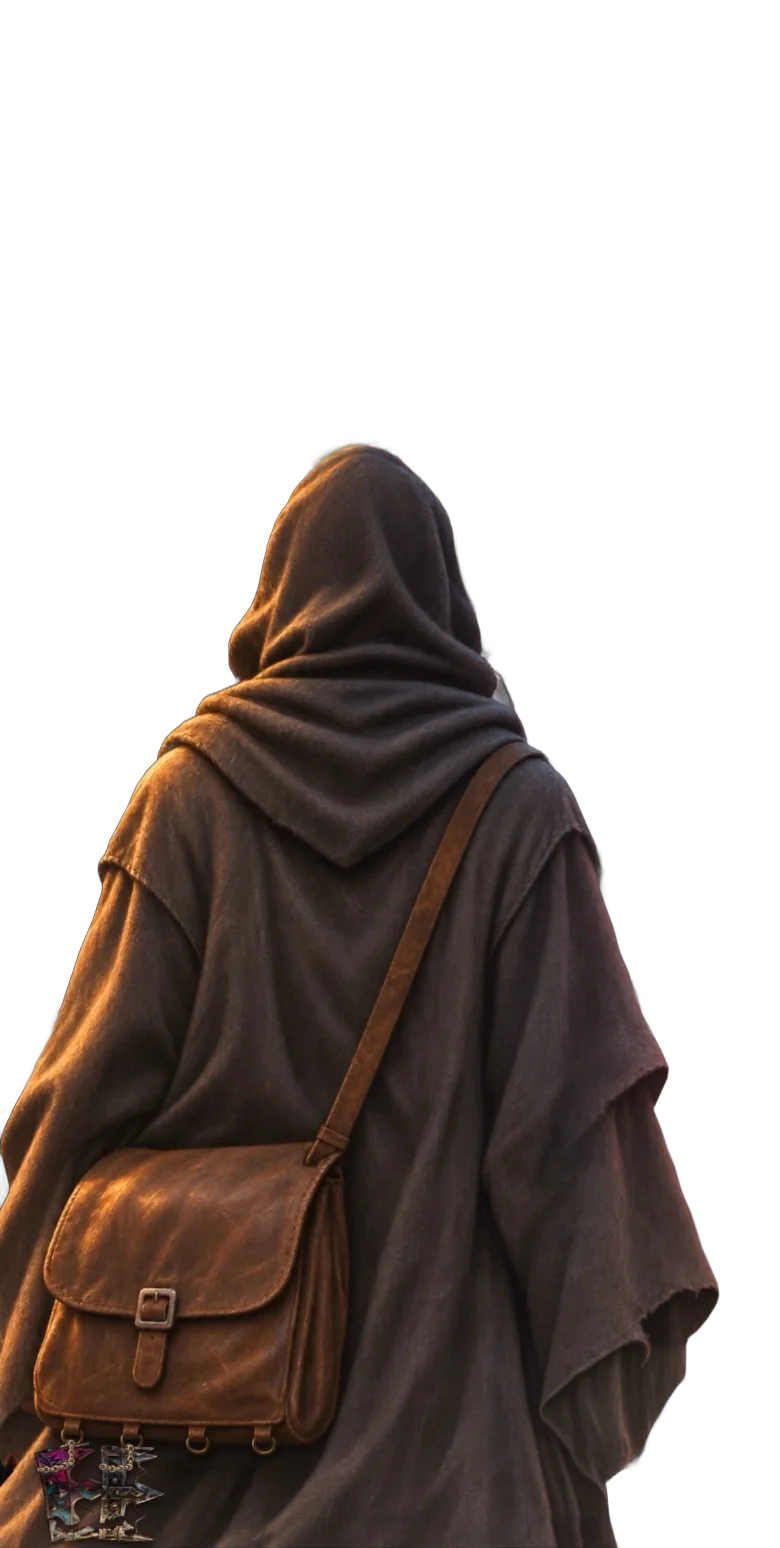
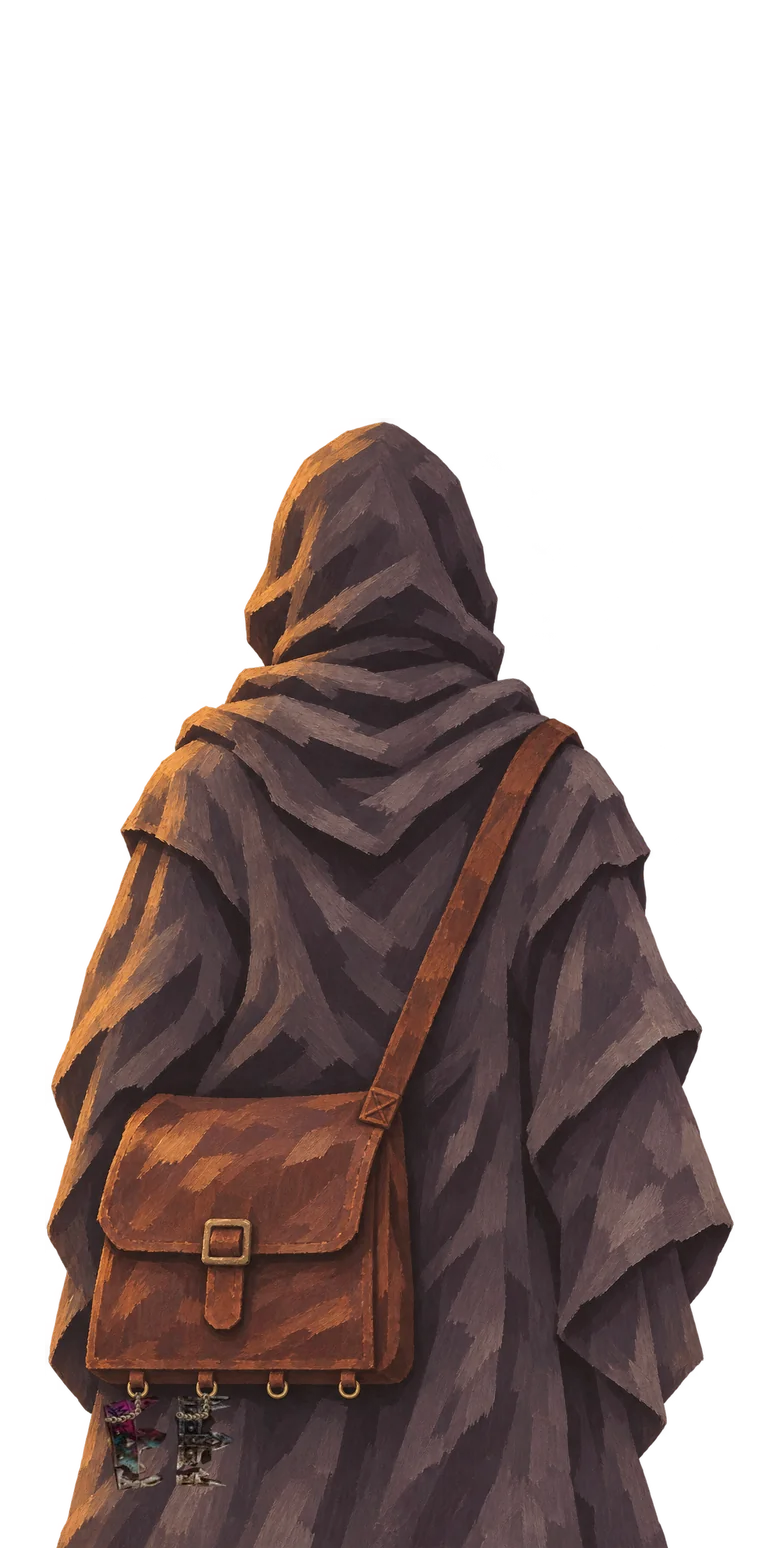
Release v261: painted land-entry Crownrunner and four-crown reveal

diff --git a/index.html b/index.html
@@ -1,12 +1,12 @@
 <!doctype html>
 <html lang="en">
 <head>
-<script src="gameplay-polish.js?v=260"></script>
-<script src="piece-designs.js?v=260"></script>
-<script src="character-style.js?v=260"></script>
-<script src="campaign-opponents.js?v=260"></script>
-<script src="campaign-dialogue.js?v=260"></script>
-<link rel="stylesheet" href="character-style.css?v=260">
+<script src="gameplay-polish.js?v=261"></script>
+<script src="piece-designs.js?v=261"></script>
+<script src="character-style.js?v=261"></script>
+<script src="campaign-opponents.js?v=261"></script>
+<script src="campaign-dialogue.js?v=261"></script>
+<link rel="stylesheet" href="character-style.css?v=261">
 
 <meta charset="utf-8">
 <meta name="viewport" content="width=device-width,initial-scale=1,viewport-fit=cover">
@@ -705,20 +705,14 @@ html{overflow-x:hidden} body{overflow-x:clip;max-width:100%;margin:0}
 .loremark{width:26px;height:26px;padding:0;border:0;background:none;color:var(--enemy,#ff3d9a);opacity:.55;transform:rotate(-8deg)}
 .loremark svg{width:26px;height:26px}
 body[data-pack="street"] .loremark{color:#ff3d9a;filter:drop-shadow(0 0 3px rgba(255,61,154,.6))}
-.reveal{position:relative;width:260px;height:260px;margin:0 auto}
-.reveal .rc{position:absolute;width:40px;height:40px;transform:translate(-50%,-50%);opacity:0;animation:rcin .6s ease-out forwards}
+.reveal{display:grid;grid-template-columns:repeat(2,minmax(0,1fr));gap:8px;width:min(78vw,286px);margin:0 auto 4px}
+.reveal .rc{display:grid;place-items:center;aspect-ratio:1.65;border:1px solid #8f7653;border-radius:5px;overflow:hidden;background:#211c1b;box-shadow:0 2px 7px #0008;animation:rcin .55s ease-out both}
+.reveal .rc img{width:100%;height:100%;object-fit:cover;display:block}
 .reveal .rc svg{width:40px;height:40px}
-.reveal .rc.art{width:64px;height:64px;border-radius:50%;overflow:hidden;border:2px solid #ffd23d;box-shadow:0 0 12px rgba(255,210,61,.6);background:#0d0d0d}
-.reveal .rc.art img{width:100%;height:100%;object-fit:cover;display:block}
-.reveal .rc svg .frac{stroke:#ffd23d;opacity:1;stroke-width:1.6;filter:drop-shadow(0 0 3px #ffd23d)}
-@keyframes rcin{from{opacity:0;transform:translate(-50%,-50%) scale(.3)}to{opacity:1;transform:translate(-50%,-50%) scale(1)}}
-.reveal .bigcrown{position:absolute;left:50%;top:50%;width:150px;height:150px;transform:translate(-50%,-50%);fill:none;stroke:#ffd23d;stroke-width:1.4;stroke-linejoin:round;filter:drop-shadow(0 0 8px #ffd23d)}
-.reveal .bigcrown path{stroke-dasharray:160;stroke-dashoffset:160;animation:drawc 2.4s ease-in-out 1.8s forwards}
-.reveal .bigcrown path + path{stroke:#e0263f;filter:drop-shadow(0 0 6px #e0263f)}
-@keyframes drawc{to{stroke-dashoffset:0}}
+@keyframes rcin{from{opacity:0;transform:translateY(4px)}to{opacity:1;transform:none}}
 .rv1{animation:fadein .8s ease 1s both}.rv2{animation:fadein .8s ease 4.2s both}.rv3{animation:fadein .8s ease 5s both}.rv4{animation:fadein .8s ease 6s both}
 @keyframes fadein{from{opacity:0;transform:translateY(6px)}to{opacity:1;transform:none}}
-@media (prefers-reduced-motion: reduce){ .reveal .rc,.reveal .bigcrown path,.rv1,.rv2,.rv3,.rv4{animation:none;opacity:1;stroke-dashoffset:0} }
+@media (prefers-reduced-motion: reduce){ .reveal .rc,.rv1,.rv2,.rv3,.rv4{animation:none;opacity:1} }
 .landhero{position:relative;height:clamp(150px,44vw,200px);border-radius:6px;overflow:hidden;border:3px solid #0d0d0d;box-shadow:4px 4px 0 rgba(0,0,0,.6);flex:none}
 .landhero img,.landintro img{position:absolute;inset:0;width:100%;height:100%;object-fit:cover;object-position:62% 38%}
 .lh-shade{position:absolute;inset:0;background:linear-gradient(180deg,rgba(13,13,13,0) 0%,rgba(13,13,13,.05) 45%,rgba(13,13,13,.6) 72%,rgba(13,13,13,.94) 100%),radial-gradient(ellipse 70% 55% at 0% 100%,rgba(13,13,13,.75),transparent 70%)}
@@ -1241,7 +1235,6 @@ img.img-fail{visibility:hidden!important;filter:none!important;animation:none!im
 .vict.b4 .vslots,.vict.b4 .vcount{opacity:1;transform:none}
 .vict.b5 .vworld{opacity:1;transform:none}
 .vict.b6 .vbtns,.vict.four.b5 .vbtns{opacity:1;transform:none}
-.vict.four .reveal{height:250px;width:260px}
 .vict.four.b1 .reveal,.vict.four.b1 .vkick{opacity:1;transform:none}
 .vict.four .vk.t1{opacity:0}.vict.four.b2 .vk.t1{opacity:1;transform:none}
 .vict.four .vk.t2{color:#e0263f;font-size:clamp(22px,6.6vw,30px)}.vict.four.b3 .vk.t2{opacity:1;transform:none}
@@ -1249,7 +1242,6 @@ img.img-fail{visibility:hidden!important;filter:none!important;animation:none!im
 .vict.four.b3 .vbg{filter:brightness(.24) blur(4px) grayscale(.2)}
 @media (prefers-reduced-motion: reduce){
   .vict *,.vict .vcard{transition:opacity .2s ease!important;animation:none!important;transform:none!important}
-  .vict .reveal .rc,.vict .reveal .bigcrown{translate:-50% -50%}   /* keep the 4/4 ring centred without its transform */
 }
 
 /* ===== Ruler intro ===== */
@@ -2325,10 +2317,10 @@ body[data-pack="gauntlet"] .pblind .sigchip{display:none}
 .scoring-total b{color:var(--brass);font-size:clamp(18px,5vw,26px)}
 @media(prefers-reduced-motion:reduce){.scoring-sequence.bump{animation:none}}
 </style>
-<link rel="stylesheet" href="city-board.css?v=260">
-<link rel="stylesheet" href="ruler-style.css?v=260">
-<link rel="stylesheet" href="gameplay-polish.css?v=260">
-<link rel="stylesheet" href="storybook.css?v=260">
+<link rel="stylesheet" href="city-board.css?v=261">
+<link rel="stylesheet" href="ruler-style.css?v=261">
+<link rel="stylesheet" href="gameplay-polish.css?v=261">
+<link rel="stylesheet" href="storybook.css?v=261">
 <div id="app"></div>
 <div id="rotateOv" aria-live="polite"><i aria-hidden="true">📱</i><b>Rotate your phone</b><span>Crownfall battles are designed for portrait play.</span></div>
 
@@ -3724,7 +3716,7 @@ async function cloudInit(){
 let onTitle = false;
 // ===== build number: the ONE place the version lives. Shown on the title screen and in How to play;
 // the site build reads it to name the service-worker cache 'crownfall-v' + GAME_VERSION. +1 every published update.
-const GAME_VERSION = 260;
+const GAME_VERSION = 261;
 const VERSION_LABEL = () => `v${GAME_VERSION}`;
 const has = id => RUN.relics.includes(id);
 const bossAt = a => RUN.bosses[(a-1) % RUN.bosses.length];
@@ -10750,12 +10742,14 @@ function crownCeremony(l, fresh){
 // 4 / 4: the four World Crowns, then the Fallen Throne opens
 function fourthReveal(l){
   musicStop(); sfx.win();
-  const ring = BASE_LANDS.map((x, k) => { const a = (k / 4) * Math.PI * 2 - Math.PI / 2, art = crownArt(x, WORLD_TIER(x));
-    return `<span class="rc${art ? ' art' : ''}" style="left:${50 + Math.cos(a) * 44}%;top:${50 + Math.sin(a) * 37}%;animation-delay:${k * 0.3}s">${art ? `<img src="${art}" alt="">` : landCrownImage(x, true)}</span>`; }).join('');
+  const crowns = BASE_LANDS.map((land, index) => {
+    const art = crownArt(land, WORLD_TIER(land));
+    return `<span class="rc" style="animation-delay:${index * 0.3}s">${art ? `<img src="${art}" alt="${landCrownName(land)}">` : landCrownImage(land, true)}</span>`;
+  }).join('');
   const ov = vOverlay('four', 'throne'); const T = vTimeline(ov, 1000);
   ov.innerHTML = `${LAND_ART.throne ? `<div class="vbg obscured" style="background-image:url('${LAND_ART.throne}')"></div>` : ''}
     <div class="vland">
-      <div class="reveal">${ring}<svg class="bigcrown" viewBox="0 0 40 40" aria-hidden="true"><path d="M5 32 L4 12 L11 19 L14 6 L20 15 L26 6 L29 19 L36 12 L35 32 Z"/><path d="M21 5 L18 15 L22 18 L17 28 L20 35"/></svg></div>
+      <div class="reveal">${crowns}</div>
       <p class="vkick">${landCrownName(l)} claimed</p>
       <b class="vk t1">4 Crowns collected</b>
       <b class="vk t2">The Fallen Throne has opened</b>

diff --git a/sw.js b/sw.js
@@ -1,19 +1,19 @@
 // Crownfall offline cache. Bump VERSION when you upload a new index.html.
 // Music in soundtrack/ is cached on demand.
-const VERSION = 'crownfall-v260';
+const VERSION = 'crownfall-v261';
 // v229: the first visit downloads only what the first session needs (the page once, scripts, icons, land and crown art,
 // portraits, Crown City's walk-in). Later art (the other Lands' walk-ins, the ending paintings) is cached the first time
 // it is shown, and topped up quietly a little after launch on a good connection, so the game still works offline.
 const FILES = [
-  './storybook.css?v=260', './assets/card-illustrations.webp',
+  './storybook.css?v=261', './assets/card-illustrations.webp',
   './assets/relics/street.webp', './assets/relics/medieval.webp', './assets/relics/greek.webp',
   './assets/relics/fantasy.webp', './assets/relics/throne.webp',
   './assets/opponents/iron-kingdom.webp', './assets/opponents/olympian-court.webp', './assets/opponents/road-opponents.webp', './assets/opponents/shattered-realm.webp', './assets/opponents/fallen-throne.webp', './assets/intro/bg-street.webp',
   './assets/intro/fig-city.webp', './assets/splash/crown-city-night.webp', './assets/splash/royal-courtyard.webp', './assets/splash/road-to-the-crown.webp',
-  './gameplay-polish.js?v=260', './gameplay-polish.css?v=260', './assets/rulers/raven.webp', './assets/rulers/stag.webp',
-  './assets/rulers/owl.webp', './assets/rulers/lion.webp', './assets/rulers/fox.webp', './piece-designs.js?v=260',
-  './character-style.js?v=260', './character-style.css?v=260', './campaign-opponents.js?v=260', './campaign-dialogue.js?v=260',
-  './city-board.css?v=260', './ruler-style.css?v=260', './downtown-journey.webp', './index.html',
+  './gameplay-polish.js?v=261', './gameplay-polish.css?v=261', './assets/rulers/raven.webp', './assets/rulers/stag.webp',
+  './assets/rulers/owl.webp', './assets/rulers/lion.webp', './assets/rulers/fox.webp', './piece-designs.js?v=261',
+  './character-style.js?v=261', './character-style.css?v=261', './campaign-opponents.js?v=261', './campaign-dialogue.js?v=261',
+  './city-board.css?v=261', './ruler-style.css?v=261', './downtown-journey.webp', './index.html',
   './manifest.webmanifest', './cf-icon-192.png', './cf-icon-512.png', './cf-touch-180.png',
   './cf-favicon-32.png', './crownfall-logo.webp', './crown-city.webp', './iron-kingdom.webp',
   './olympian-court.webp', './shattered-realm.webp', './fallen-throne.webp', './spray-paint-crown.webp',

diff --git a/gameplay-polish.css b/gameplay-polish.css
@@ -429,11 +429,11 @@ body[data-art="1"]:not([data-pack="street"])::after{background:linear-gradient(1
 .lwalk.in .lw-bg img{animation:lwnear 7s linear both}
 .lw-fig{transform-origin:50% 100%}
 .lwalk.in .lw-fig{animation:lwaway 7s linear both}
-.lw-fig img{transform-origin:50% 100%}
+.lw-fig img{object-fit:contain;transform-origin:50% 100%}
 .lwalk.in .lw-fig img{animation:lwstep 1.1s ease-in-out infinite}
 @keyframes lwnear{from{transform:scale(1)}to{transform:scale(1.08) translateY(1.2%)}}
-@keyframes lwaway{from{transform:scale(1)}to{transform:scale(.975)}}
-@keyframes lwstep{0%,50%,100%{transform:translate(0,0) rotate(0)}25%{transform:translate(-.5%,-.55%) rotate(-.45deg)}75%{transform:translate(.5%,-.55%) rotate(.45deg)}}
+@keyframes lwaway{from{transform:scale(1.025)}to{transform:scale(1)}}
+@keyframes lwstep{0%,50%,100%{transform:translate(0,0) rotate(0)}25%{transform:translate(-.22%,.25%) rotate(-.12deg)}75%{transform:translate(.22%,.25%) rotate(.12deg)}}
 .lw-shade{position:absolute;inset:0;background:linear-gradient(180deg,rgba(8,7,10,.62) 0,rgba(8,7,10,0) 22%);pointer-events:none}
 .lw-head{position:absolute;left:20px;right:130px;top:calc(env(safe-area-inset-top,0px) + 18px);color:#f6efe2;text-shadow:0 2px 10px rgba(0,0,0,.7)}
 .lw-head small{display:block;font:600 11px/1.2 var(--body);letter-spacing:.24em;text-transform:uppercase;color:#e8c37a}
